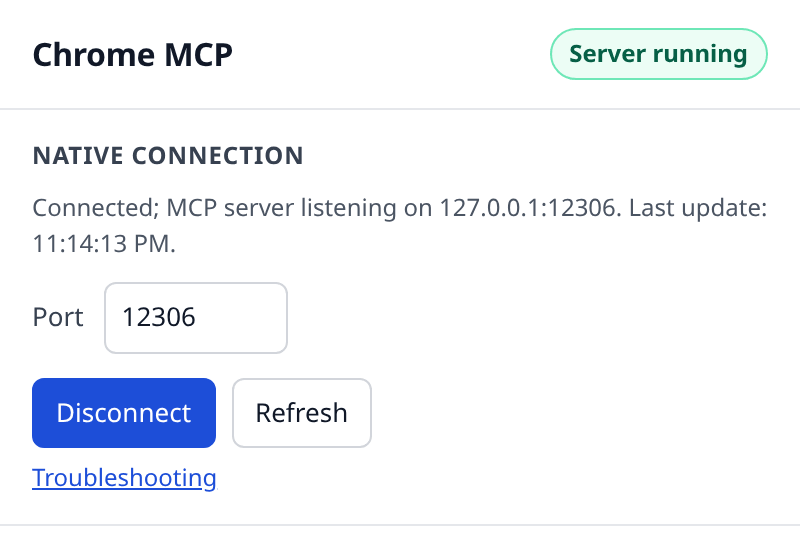
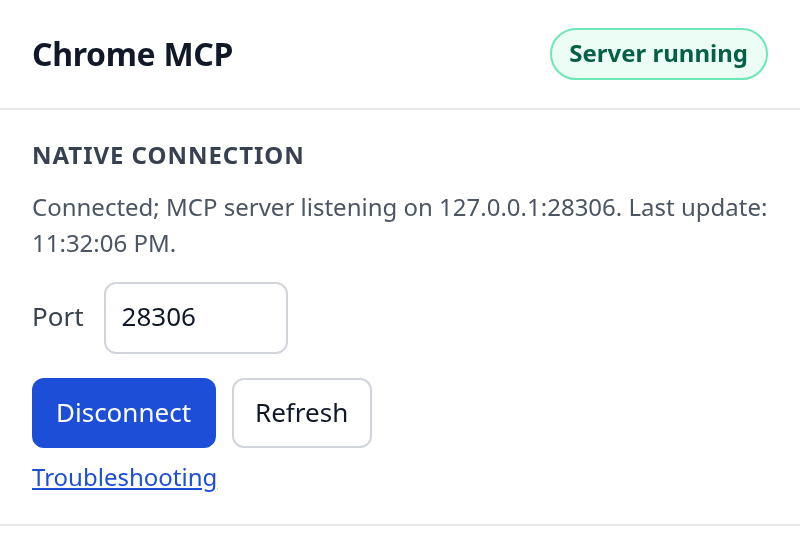
docs: refresh popup and userscripts screenshots for the final build

diff --git a/README.md b/README.md
@@ -79,7 +79,7 @@ To change the listening port, disconnect, enter a free port, and connect again.
 The native host uses `CHROME_MCP_PORT` first, then `MCP_HTTP_PORT`, then the
 saved popup port. The default is `12306`.
 
-<img src="docs/images/connected-popup.png" alt="Extension popup showing a connected native host and the compatible Streamable HTTP endpoint" width="400" />
+<img src="docs/images/connected-popup.png" alt="Extension popup showing Server running on custom port 28306 and the compatible Streamable HTTP configuration with the /mcp endpoint" width="400" />
 
 The native-host name remains `com.chromemcp.nativehost` for protocol compatibility.
 Registration replaces an existing registration under that name. Do not register
@@ -186,8 +186,8 @@ See [Chrome's User Scripts documentation](https://developer.chrome.com/docs/exte
 The popup shows the native connection, the selected MCP client configuration,
 browser tool settings, and shortcuts to page tools and diagnostics.
 
-<img src="docs/images/popup-native-connection.png" alt="Native connection status and port controls" width="400" />
-<img src="docs/images/popup-mcp-client.png" alt="Transport selector and copyable MCP configuration" width="400" />
+<img src="docs/images/popup-native-connection.png" alt="Native connection card showing Server running with the MCP server listening on the saved custom port 28306" width="400" />
+<img src="docs/images/popup-mcp-client.png" alt="Transport selector set to Streamable HTTP (compatible) with the copyable configuration and the matching /mcp endpoint" width="400" />
 <img src="docs/images/popup-settings.png" alt="Background operations and page timeout settings" width="400" />
 <img src="docs/images/popup-utilities.png" alt="Utilities shortcuts in the popup" width="400" />
 
@@ -203,7 +203,7 @@ browser tool settings, and shortcuts to page tools and diagnostics.
 <summary>Proxy and Userscripts settings</summary>
 
 ![Residential proxy controls in Options](docs/images/options-proxy.png)
-![Userscript controls and local script records in Options](docs/images/options-userscripts.png)
+![Userscripts Manager in Options with a saved local script, shown with Allow User Scripts enabled in Chrome](docs/images/options-userscripts.png)
 
 </details>
 
